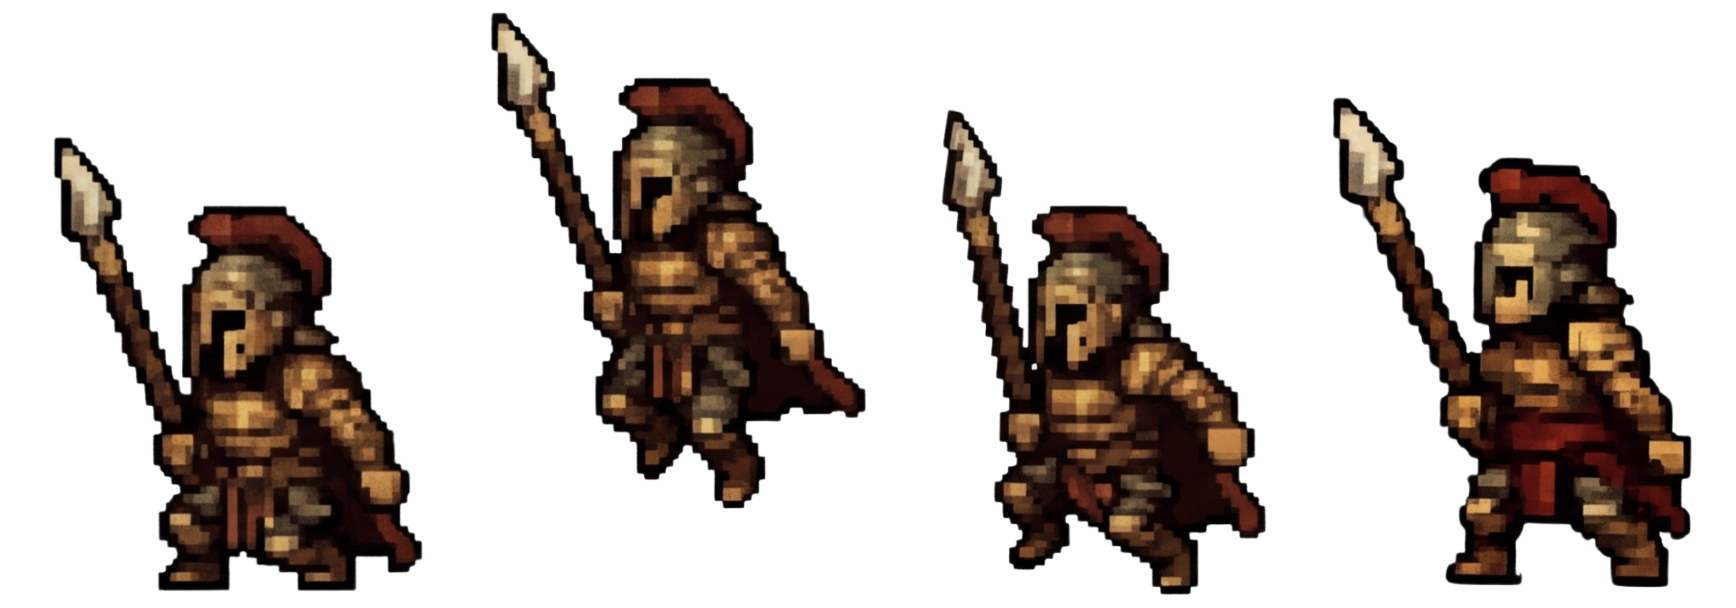
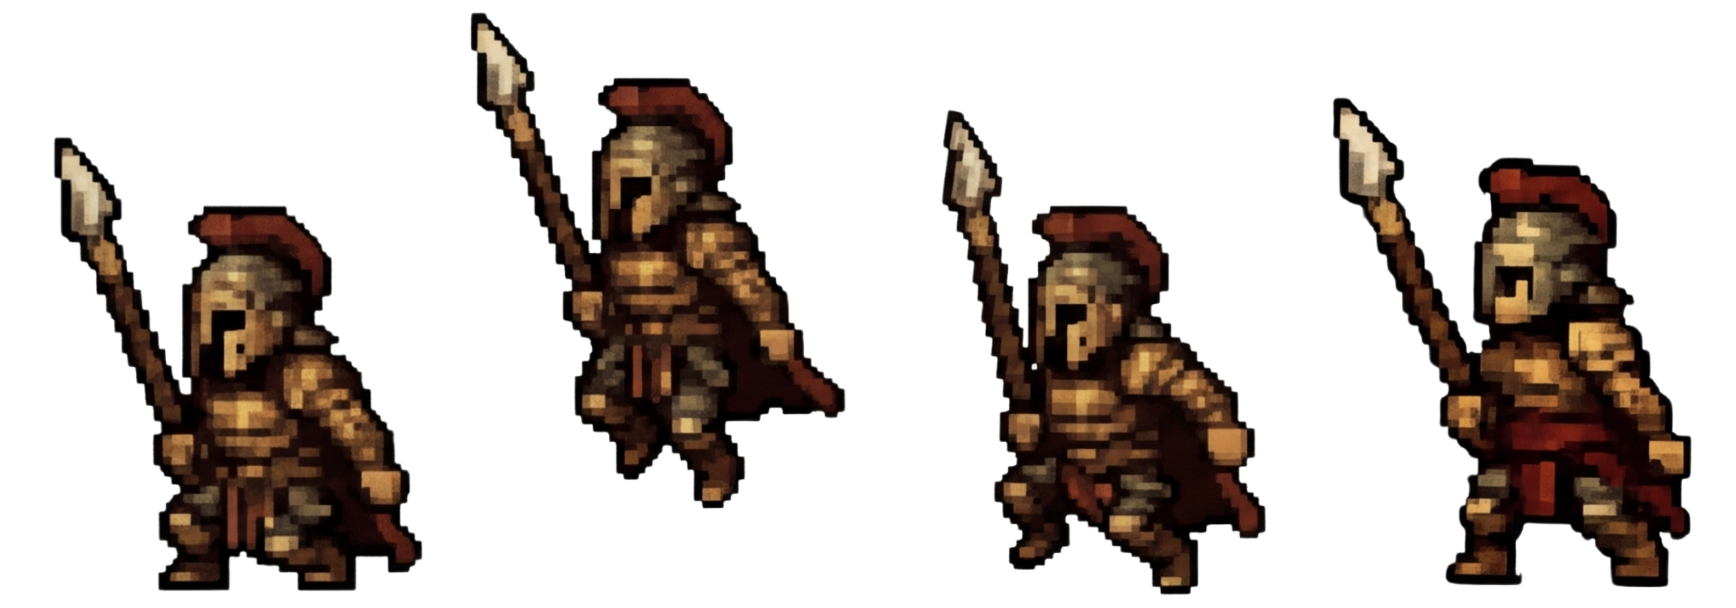
Añadí los sprites para atacar (izq/der) y la lógica para atacar, unicamente para player 2

Changed region(s): [[0.2488, 0.0, 0.4977, 0.8438]]

diff --git a/client/objects/Player2.js b/client/objects/Player2.js
@@ -7,7 +7,7 @@ class Player2 extends PlayerBase {  //1736 x 608 px
         this.health = 100; //* TODO: traer esta info de la db
         this.speed = 4; 
         this.sheetCols = 4;
-        this.setAnimation(0, 2, true, 200);
+        this.setAnimation(0, 2, true, 200);  //le puse 2 porque si no se mueve raro
         //De aquí para abajo las propiedades son para que pueda quedarse quieto si no está en movimiento y que pueda saltar
         this.velocityY = 0; //qué tan rápido brinca
         this.gravity = 0.8; 
@@ -17,13 +17,19 @@ class Player2 extends PlayerBase {  //1736 x 608 px
 
         //upload all the sprites
         this.spriteRight = new Image();
-        this.spriteRight.src = "./assets/player2/5.png";
+        this.spriteRight.src = "./assets/player2/5.png";  //walk right
         this.spriteLeft = new Image();
-        this.spriteLeft.src = "./assets/player2/6.png";
+        this.spriteLeft.src = "./assets/player2/6.png";  //walk left
+
         this.spriteJumpRight = new Image();
-        this.spriteJumpRight.src = "./assets/player2/7.png";
+        this.spriteJumpRight.src = "./assets/player2/7.png";  //jump right
         this.spriteJumpLeft = new Image();
-        this.spriteJumpLeft.src = "./assets/player2/8.png";
+        this.spriteJumpLeft.src = "./assets/player2/8.png";  //jump left
+
+        this.attackRight = new Image();
+        this.attackRight.src = "./assets/player2/p2_attackright.png";  //attack right
+        this.attackLeft = new Image();
+        this.attackLeft.src = "./assets/player2/p2_attackleft.png";  //attack left
 
         //initial sprite
         this.spriteImage = this.spriteRight;

diff --git a/client/objects/PlayerBase.js b/client/objects/PlayerBase.js
@@ -5,19 +5,31 @@ class PlayerBase extends AnimatedObject {
   constructor(position){
     super(position,160,160,"white","player",6)
     this.direction = "right";  //default direction
+    this.playeratack = false;  //default attack state
+    this.attackFrames = 0;  //frames counter
+    this.attackDuration = 25;  //frames the attack lasts
   }
 
   update(){
     if (!this.isOnGround) {
-      //case 1: jump
+      //case 1: jump (no attack allowed in the air)
       this.spriteImage = (this.direction === "right") ? this.spriteJumpRight : this.spriteJumpLeft;
       this.updateAnimation(20);
+    } else if (this.playeratack) {
+      //case 2: attack (only on the ground)
+      this.spriteImage = (this.direction === "right") ? this.attackRight : this.attackLeft;  
+      this.updateAnimation(20);
+      this.attackFrames++;
+      if (this.attackFrames >= this.attackDuration) {
+        this.playeratack = false;
+        this.attackFrames = 0;
+      }
     } else if (this.isMoving) {
-      //case 2: walk
+      //case 3: walk
       this.spriteImage = (this.direction === "right") ? this.spriteRight : this.spriteLeft;
       this.updateAnimation(20);
     } else {
-      //case 3: stay
+      //case 4: stay
       this.spriteImage = (this.direction === "right") ? this.spriteRight : this.spriteLeft;
       this.frame = 0;  //returns variable to 0
       if (this.spriteRect) this.spriteRect.x = 0;  //returns image to initial frame (reset)

diff --git a/client/scenes/level1Scene.js b/client/scenes/level1Scene.js
@@ -139,6 +139,7 @@ function update(){
         player.isOnGround = false;
         jumpPressed = false;
     }
+    
     player.velocityY += player.gravity;
     player.position.y += player.velocityY; //cuando salta sube y baja por gravedad
 
@@ -223,6 +224,12 @@ function handleKeyDown(event){
     keysDown[event.key] = true;
     if(event.key === " "){ //spacebar for jump
         jumpPressed = true;
+    }
+    if(event.key === "j"){ //J for attack
+        if(!player.playeratack){
+            player.playeratack = true;
+            player.attackFrames = 0;
+        }
     }
 }
 
